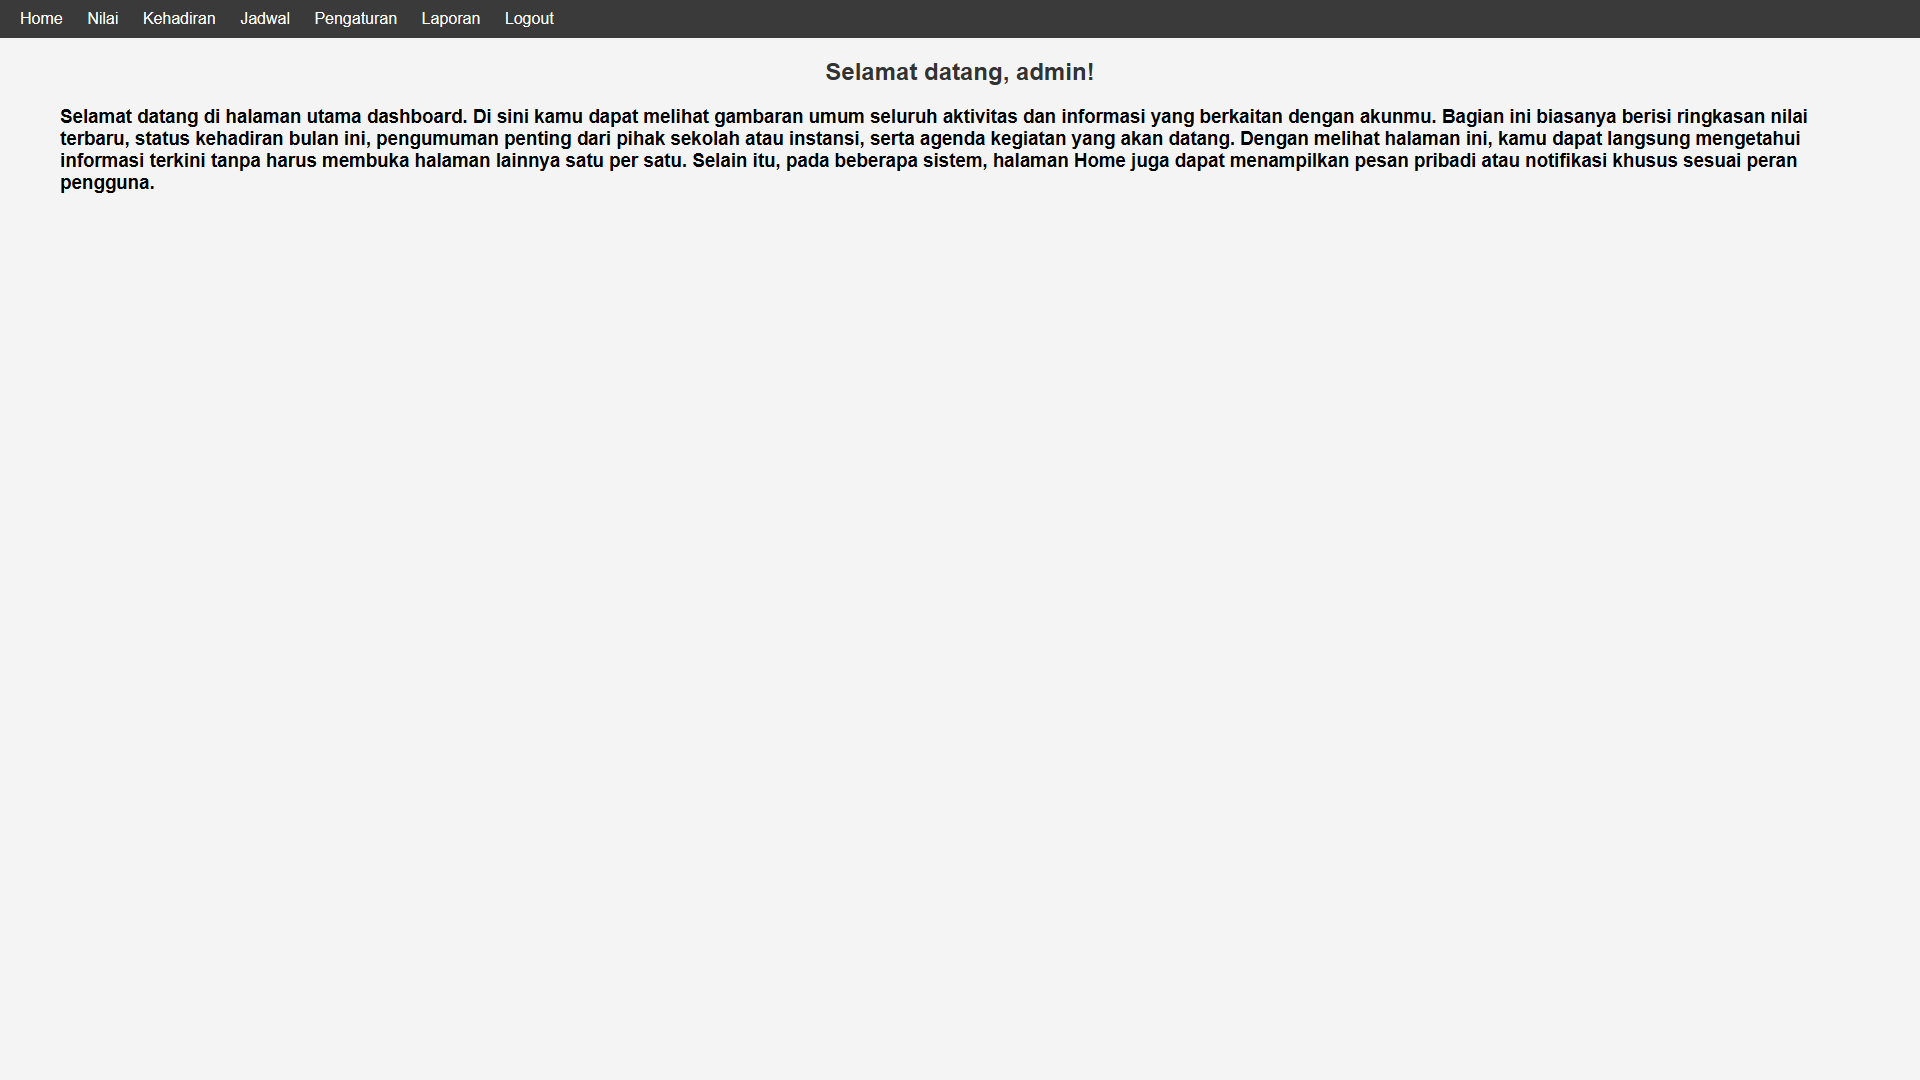
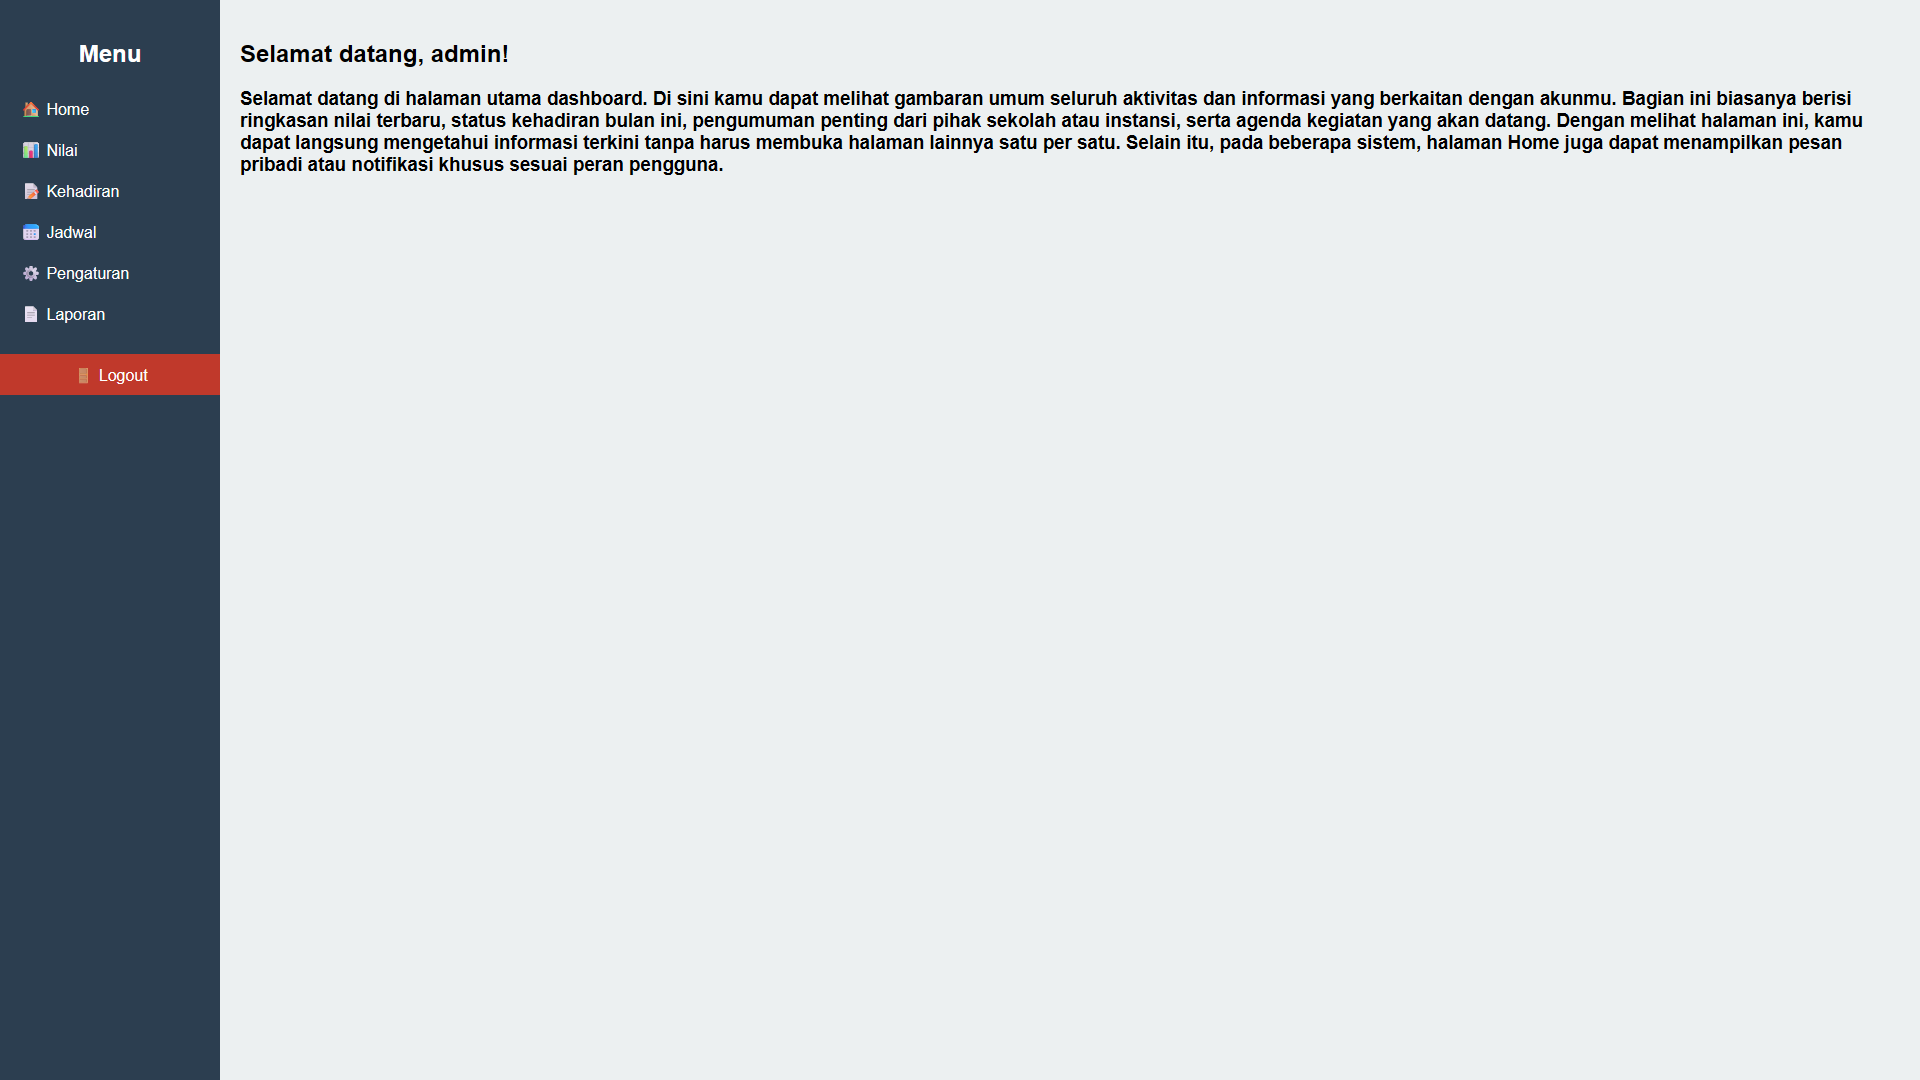
Dashboard

Changed region(s): [[0.0, 0.0, 1.0, 1.0]]

diff --git a/welcome.php b/welcome.php
@@ -16,46 +16,66 @@ $page = $_GET['page'] ?? 'home';
     <title>welcome</title>
     <style>
 		body {
-			font-family: Arial, sans-serif;
-			margin: 0;
-			padding: 0;
-			background-color: #f4f4f4;
-		}
-        nav {
-            background: #3a3a3aff;
-            padding: 10px;
+            margin: 0;
+            font-family: Arial, sans-serif;
+            display: flex;
+            height: 100vh;
         }
-        nav a {
+        .sidebar {
+            width: 220px;
+            background-color: #2c3e50;
             color: white;
-            margin: 0 10px;
+            padding-top: 20px;
+            flex-shrink: 0;
+        }
+        .sidebar h2 {
+            text-align: center;
+            margin-bottom: 20px;
+        }
+        .sidebar a {
+            display: block;
+            color: white;
+            padding: 10px 20px;
             text-decoration: none;
         }
-
-		h2 {
-			text-align: center;
-			color: #333;
-			margin-top: 20px;
-		}
-		
-		.content {
-			margin: auto 60px ;
+        .sidebar a:hover {
+            background-color: #34495e;
+        }
+        .content {
+            flex-grow: 1;
+            padding: 20px;
+            background-color: #ecf0f1;
+            overflow-y: auto;
+        }
+        .logout-btn {
+            background-color: #c0392b;
+            color: white;
+            padding: 10px 20px;
+            display: block;
+            margin-top: 20px;
+            text-align: center;
+            text-decoration: none;
+        }
+        .logout-btn:hover {
+            background-color: #e74c3c;
 		}
     </style>
 </head>
 <body>
-    <nav>
-        <a href="welcome.php?page=home">Home</a>
-        <a href="welcome.php?page=nilai">Nilai</a>
-        <a href="welcome.php?page=kehadiran">Kehadiran</a>
-        <a href="welcome.php?page=jadal">Jadwal</a>
-        <a href="welcome.php?page=pengaturan">Pengaturan</a>
-        <a href="welcome.php?page=laporan">Laporan</a>
-        <a href="logout.php">Logout</a>
-    </nav>
-
-    <h2>Selamat datang, <?php echo htmlspecialchars($username); ?>!</h2>
-
-    <div class="content">
+    <div class="sidebar">
+        <h2>Menu</h2>
+        <a href="welcome.php?page=home">🏠 Home</a>
+        <a href="welcome.php?page=nilai">📊 Nilai</a>
+        <a href="welcome.php?page=kehadiran">📝 Kehadiran</a>
+        <a href="welcome.php?page=jadwal">📅 Jadwal</a>
+        <a href="welcome.php?page=pengaturan">⚙ Pengaturan</a>
+        <a href="welcome.php?page=laporan">📄 Laporan</a>
+        <a href="logout.php" class="logout-btn">🚪 Logout</a>
+		</div>
+		
+		
+	<div class="content">
+		<h2>Selamat datang, <?php echo htmlspecialchars($username); ?>!</h2>
         <?php
         switch ($page) {
             case 'home':
@@ -67,7 +87,7 @@ $page = $_GET['page'] ?? 'home';
             case 'kehadiran':
                 echo "<h3>Halaman kehadiran menyajikan catatan lengkap mengenai absensi selama periode tertentu. Informasi yang ditampilkan mencakup jumlah kehadiran, izin, sakit, dan alfa (tidak hadir tanpa keterangan). Rekap kehadiran biasanya dilengkapi dengan persentase, sehingga memudahkan untuk mengevaluasi kedisiplinan. Fitur tambahan yang umum ditemui adalah filter berdasarkan bulan atau semester, serta grafik visual untuk memberikan gambaran yang lebih jelas mengenai pola kehadiran. Halaman ini bermanfaat untuk memastikan catatan absensi tetap terpantau dengan baik.</h3>";
                 break;
-            case 'jadal': // typo dari 'jadwal' biar sesuai link
+            case 'jadwal': // typo dari 'jadwal' biar sesuai link
                 echo "<h3>Halaman ini berfungsi sebagai panduan kegiatan harian. Di dalamnya terdapat daftar lengkap mata pelajaran, jam pelajaran, nama pengajar, dan ruangan tempat kegiatan berlangsung. Jadwal biasanya tersusun rapi berdasarkan urutan hari dan jam, sehingga pengguna dapat dengan mudah mengetahui kegiatan yang akan diikuti. Pada beberapa sistem, halaman ini juga dilengkapi dengan fitur pengingat otomatis atau notifikasi jika jadwal mengalami perubahan mendadak. Dengan adanya halaman jadwal, risiko terlambat atau salah masuk kelas dapat diminimalkan.</h3>";
                 break;
             case 'pengaturan':
